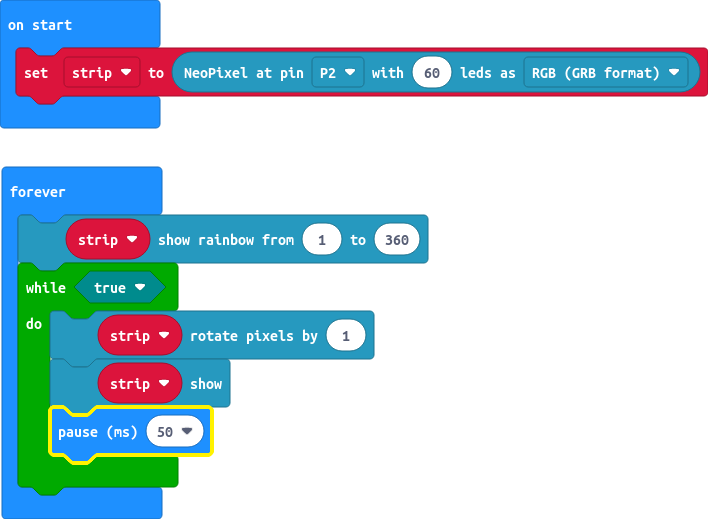
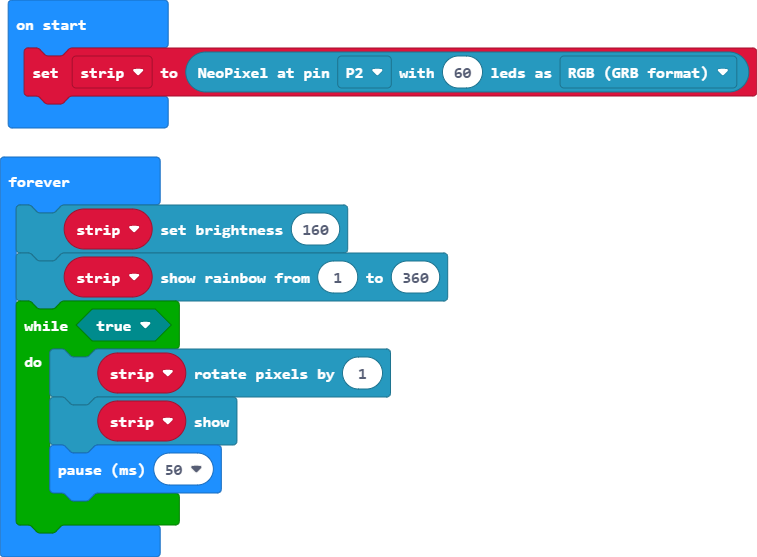
lower brightness

Changed region(s): [[0.0, 0.2775, 0.6215, 1.0], [0.0, 0.0, 1.0, 0.2466]]

diff --git a/main.ts b/main.ts
@@ -1,5 +1,6 @@
 let strip = neopixel.create(DigitalPin.P2, 60, NeoPixelMode.RGB)
 basic.forever(function () {
+    strip.setBrightness(160)
     strip.showRainbow(1, 360)
     while (true) {
         strip.rotate(1)
